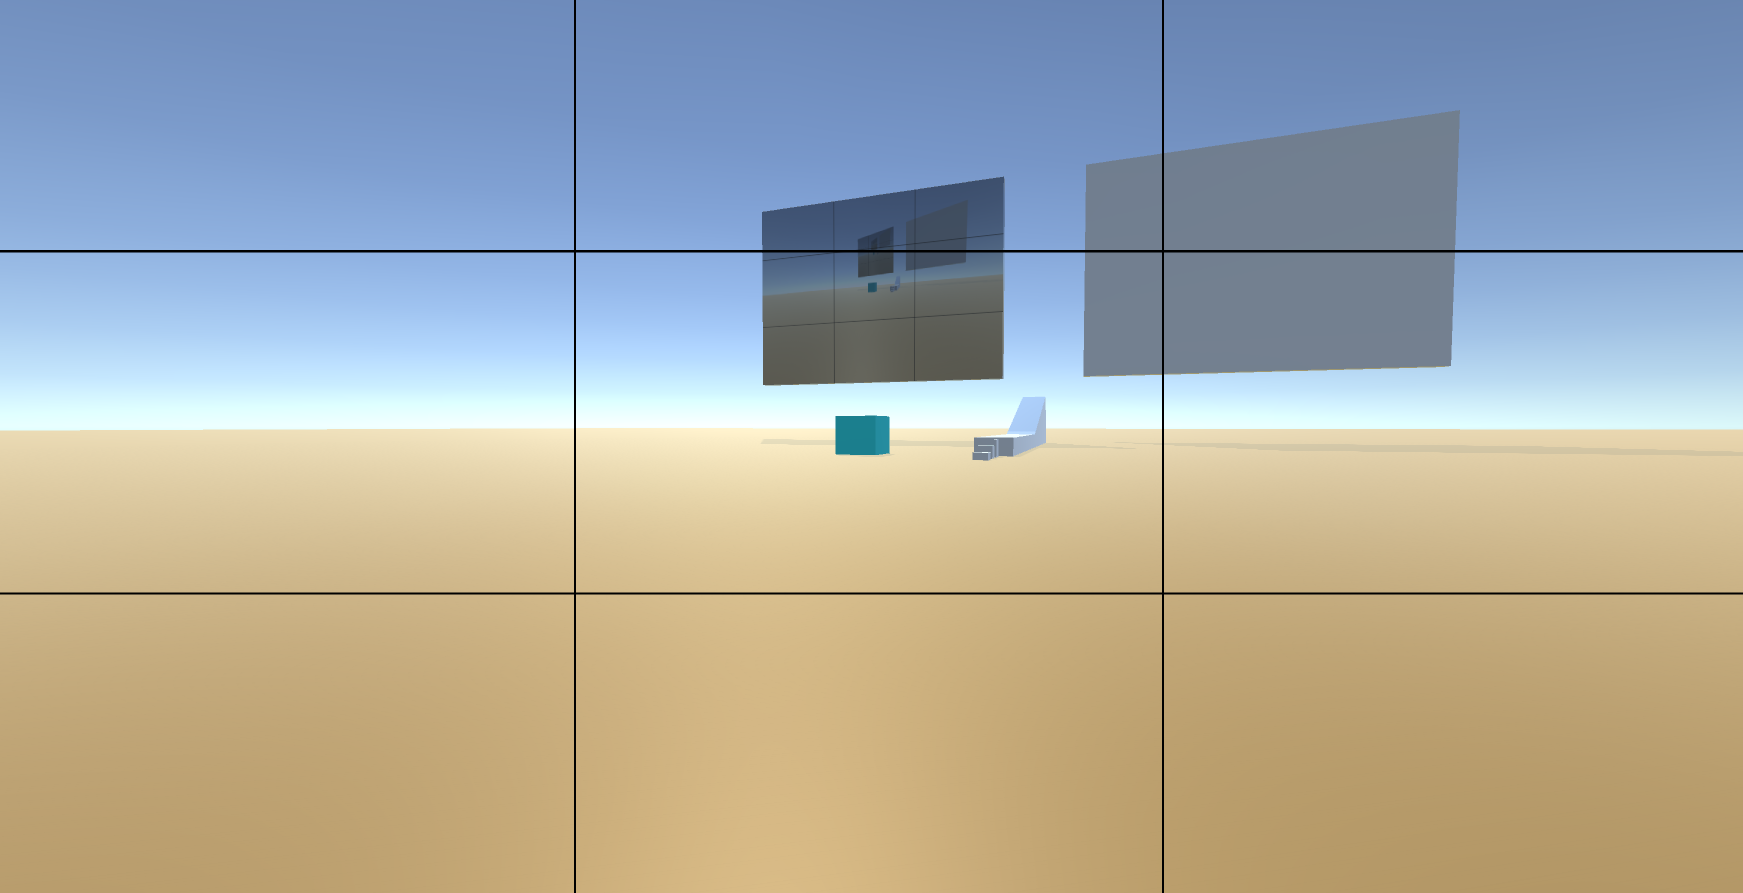
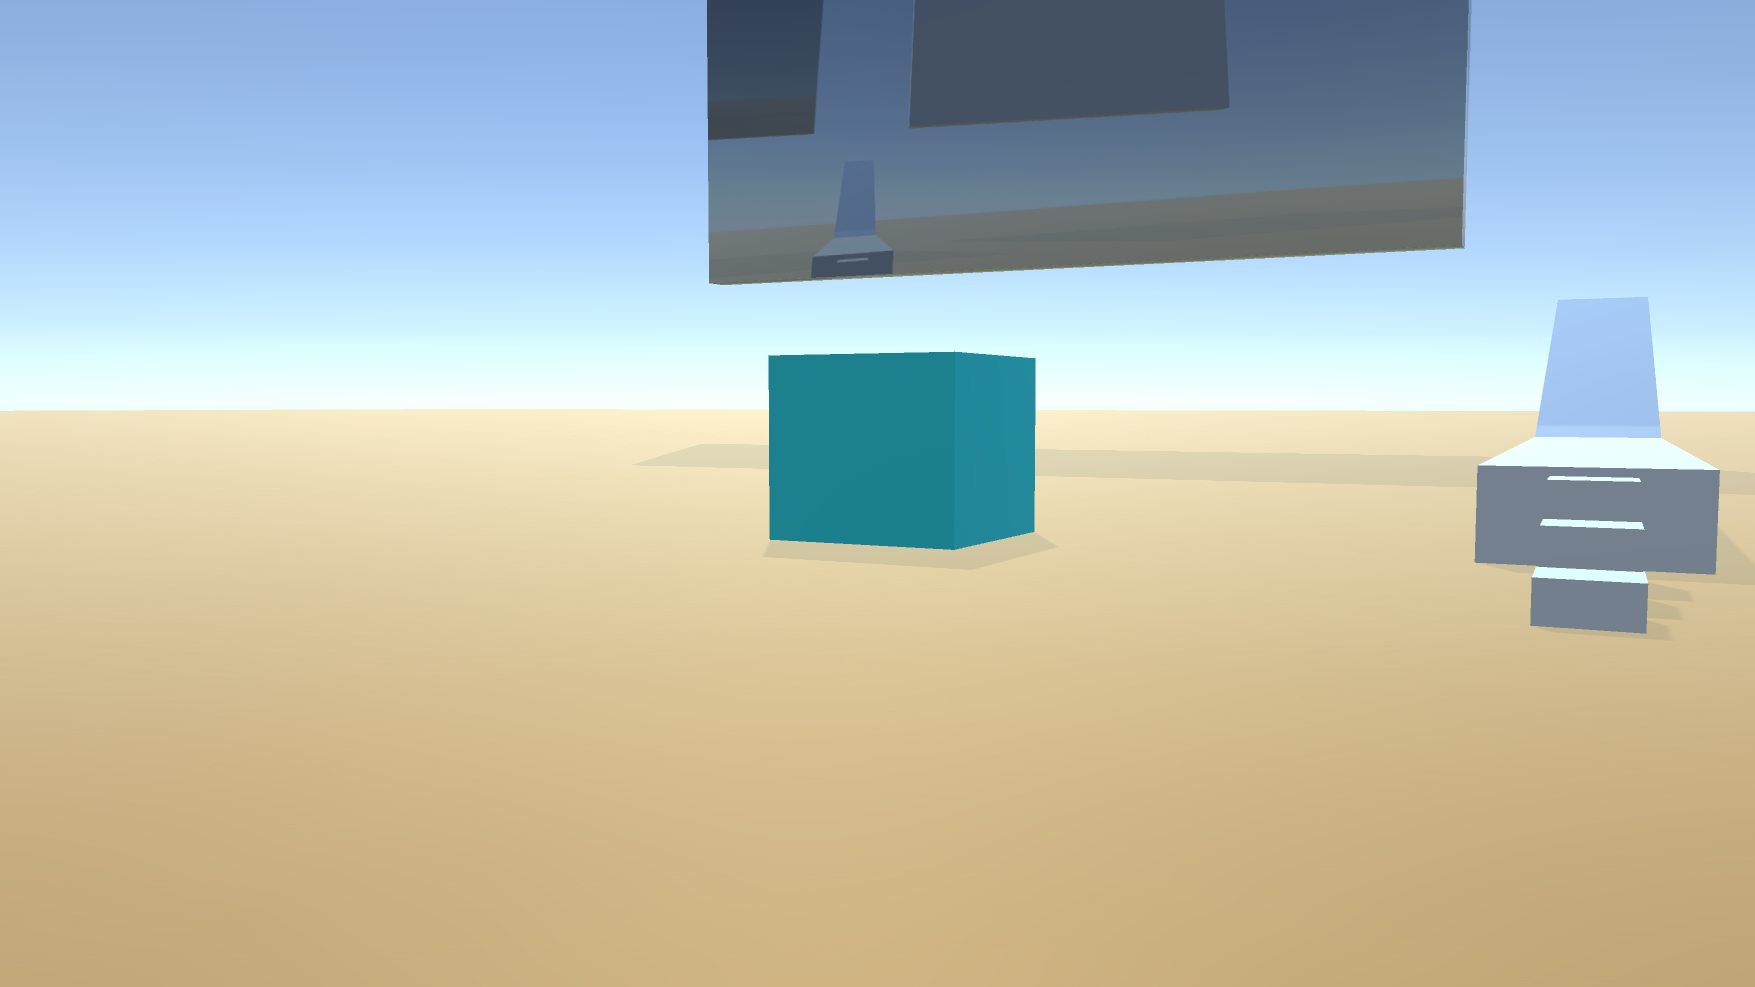
NewUIStuff

diff --git a/Assets/Scripts/ScreenShot.cs b/Assets/Scripts/ScreenShot.cs
@@ -8,15 +8,25 @@ public class ScreenShot : MonoBehaviour {
 	//Private Fields
 	private bool startResetCameraUI;
 	private float resetCameraUI;
+	private bool aimDown;
 	//Non-Input but Referenced
 	public string whatAnimal;
 
 	void Start(){
 		resetCameraUI = 0.0f;
+		ui_CameraUI.SetActive(false);
 	}
 
 	void Update(){
-		if (Input.GetButtonDown ("Fire1")) {
+		if (Input.GetButton("Fire2")) {
+			aimDown = true;
+			ui_CameraUI.SetActive(true);
+		}
+		else{
+			aimDown = false;
+			ui_CameraUI.SetActive(false);
+		}
+		if (Input.GetButtonDown ("Fire1") && aimDown) {
 			//Disable Camera UI
 			ui_CameraUI.SetActive (false);
 			//Send out a ray that returns a string
@@ -49,7 +59,7 @@ public class ScreenShot : MonoBehaviour {
 			resetCameraUI += Time.deltaTime;
 		}
 
-		if (resetCameraUI >= 0.000001f) {
+		if (resetCameraUI >= 0.1f) {
 			ui_CameraUI.SetActive (true);
 			startResetCameraUI = false;
 			resetCameraUI = 0.0f;

diff --git a/Assets/Scripts/beastiarySwitch.cs b/Assets/Scripts/beastiarySwitch.cs
@@ -1,0 +1,39 @@
+using UnityEngine;
+using System.Collections;
+
+public class beastiarySwitch : MonoBehaviour {
+	
+	public GameObject[] animalPanels;
+	public GameObject mainBeastUI;
+
+	private bool mainUIOn;
+
+
+
+	void Update() {
+		if (Input.GetButtonDown("HUD") && mainUIOn == false) {
+			mainBeastUI.SetActive(true);
+			mainUIOn = true;
+		}
+		else if (Input.GetButtonDown("HUD") && mainUIOn == true) {	
+			mainBeastUI.SetActive(false);
+			mainUIOn = false;
+		}
+	}
+	void Start() {
+		mainBeastUI.SetActive (false);
+		for (int i = 0; i < animalPanels.Length; i++) {
+			animalPanels[i].SetActive(false);
+			if (i == 1)
+				animalPanels[i].SetActive(true);
+		}
+	}
+
+	public void menuSwitch(int menuPos) {
+		animalPanels[menuPos].SetActive(true);
+		for (int i = 0; i < animalPanels.Length; i++) {
+			if (i != menuPos)
+				animalPanels[i].SetActive(false);
+		}
+	}
+}
